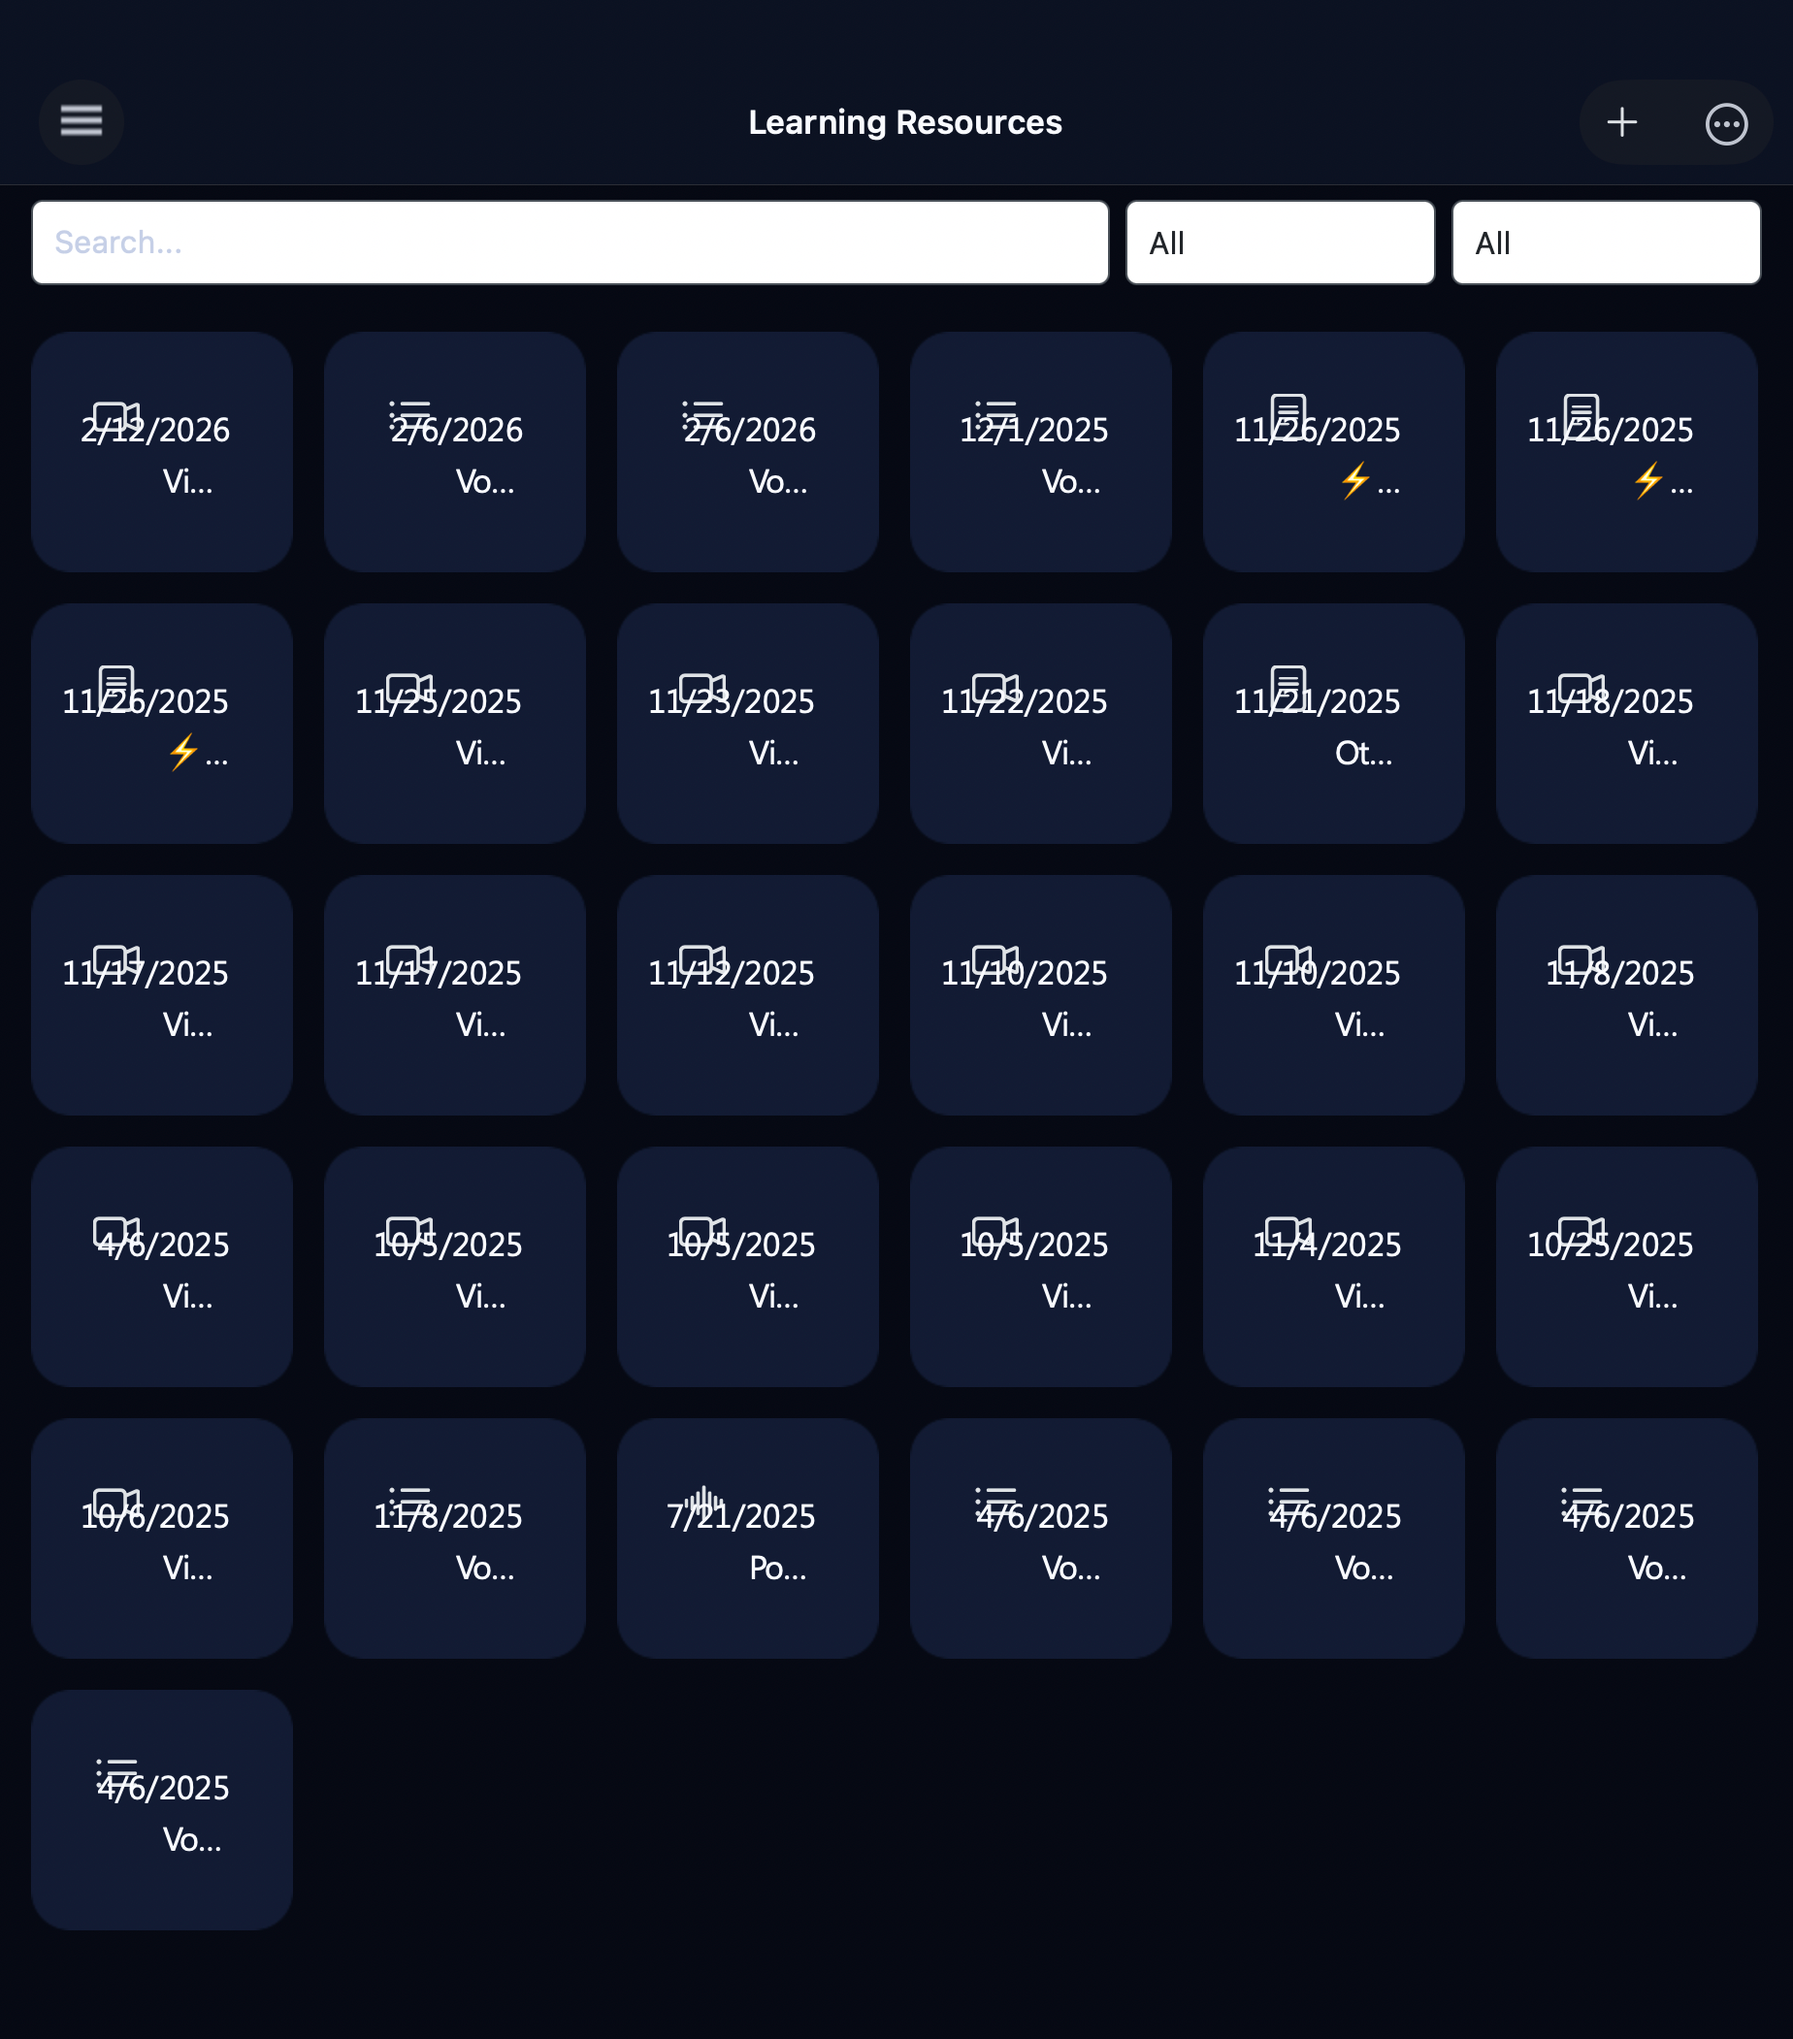
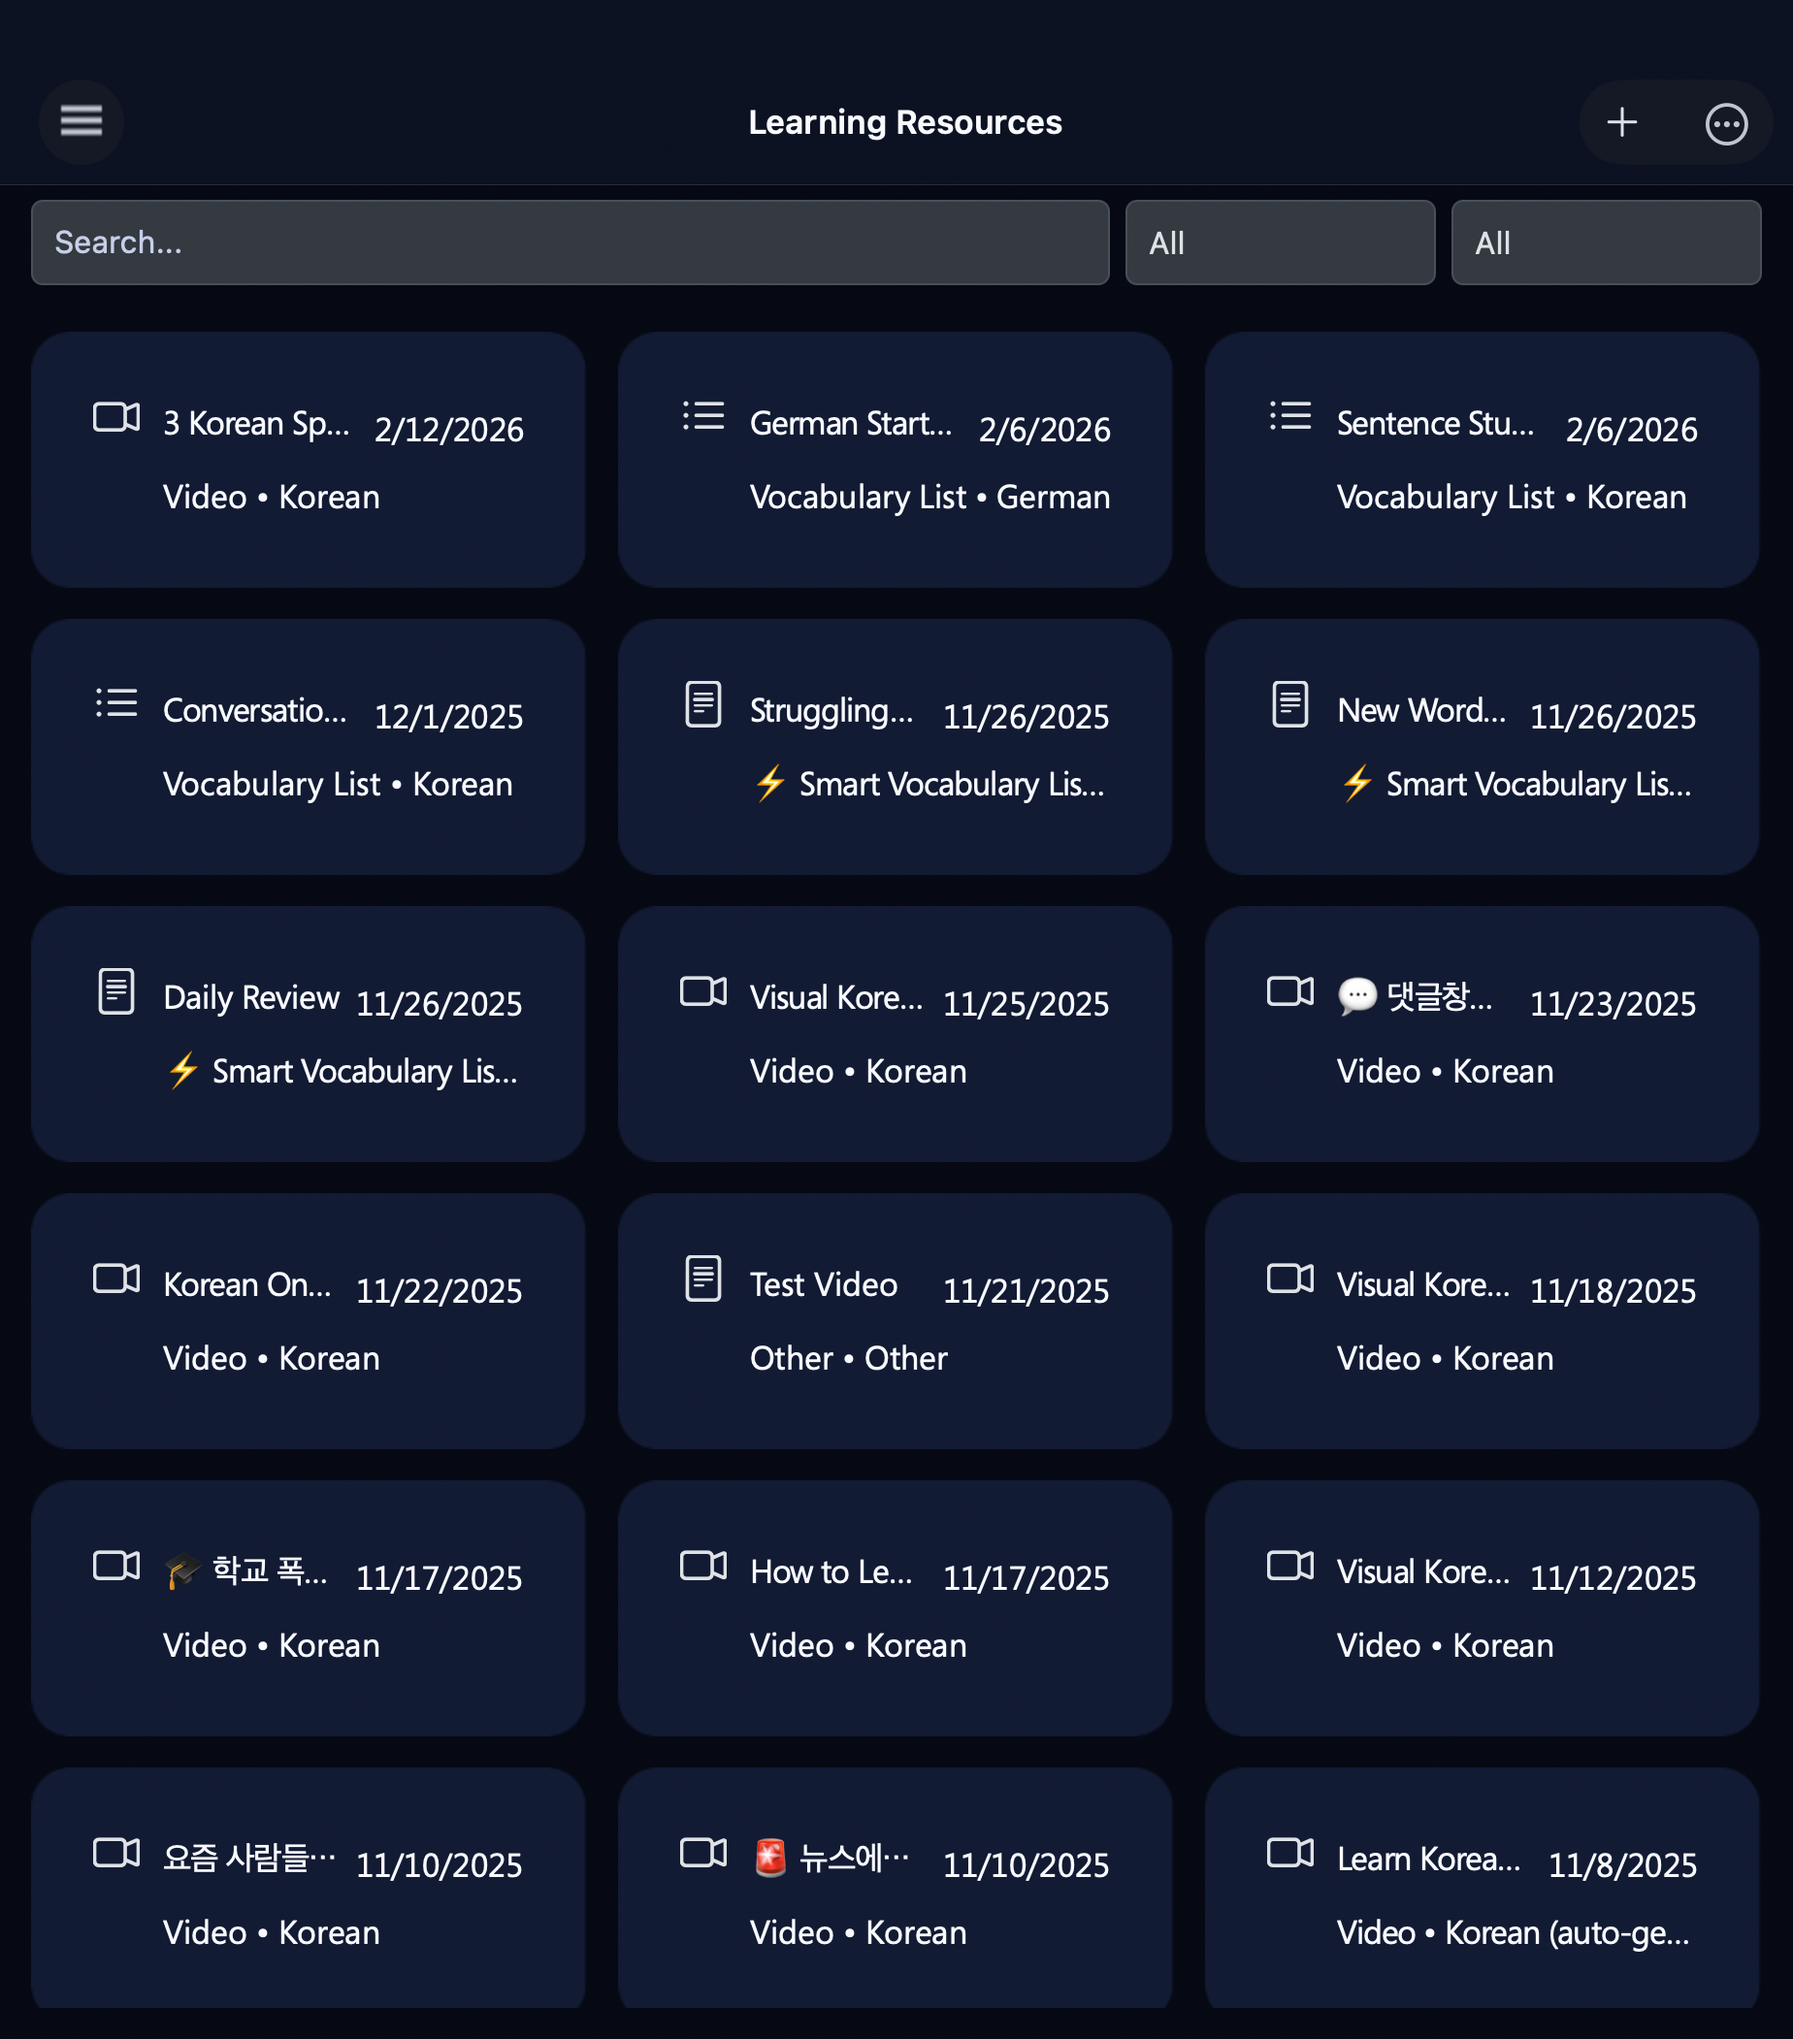
Grid column tweaks: 260px/4col for Resources and Vocabulary

diff --git a/src/SentenceStudio/Pages/LearningResources/ListLearningResourcesPage.cs b/src/SentenceStudio/Pages/LearningResources/ListLearningResourcesPage.cs
@@ -83,9 +83,9 @@ partial class ListLearningResourcesPage : Component<ListLearningResourcesState>
                                 .ItemSizingStrategy(ItemSizingStrategy.MeasureFirstItem)
                                 .Set(Microsoft.Maui.Controls.CollectionView.ItemsLayoutProperty,
                                     GridLayoutHelper.CalculateResponsiveLayout(
-                                        desiredItemWidth: 280,
+                                        desiredItemWidth: 260,
                                         orientation: ItemsLayoutOrientation.Vertical,
-                                        maxColumns: 3))
+                                        maxColumns: 4))
                                 .ItemsSource(State.Resources, RenderResourceItem)
                                 .EmptyView(
                                     VStack(

diff --git a/src/SentenceStudio/Pages/VocabularyManagement/VocabularyManagementPage.cs b/src/SentenceStudio/Pages/VocabularyManagement/VocabularyManagementPage.cs
@@ -406,7 +406,7 @@ partial class VocabularyManagementPage : Component<VocabularyManagementPageState
             .Set(Microsoft.Maui.Controls.CollectionView.ItemsLayoutProperty,
                 State.IsPhoneIdiom
                     ? new LinearItemsLayout(ItemsLayoutOrientation.Vertical) { ItemSpacing = 12 }
-                    : GridLayoutHelper.CalculateResponsiveLayout(desiredItemWidth: 280, maxColumns: 3))
+                    : GridLayoutHelper.CalculateResponsiveLayout(desiredItemWidth: 260, maxColumns: 4))
             .Background(Colors.Transparent)
             .ItemSizingStrategy(ItemSizingStrategy.MeasureFirstItem)
             .Margin(16, 0);
